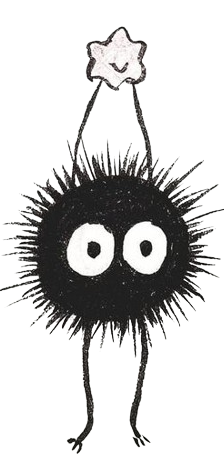
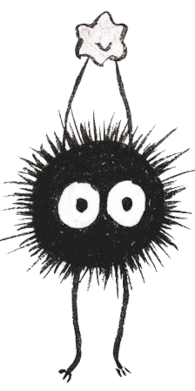
seccion sin cara

diff --git a/characters.html b/characters.html
@@ -139,7 +139,7 @@
                 <div style="height: 150px; overflow: hidden;" ><svg viewBox="0 0 500 150" preserveAspectRatio="none" style="height: 100%; width: 100%;"><path d="M0.00,49.98 C149.99,150.00 271.49,-49.98 500.00,49.98 L500.00,0.00 L0.00,0.00 Z" style="stroke: none; fill: #FFBD59;"></path></svg></div>
                 <div>
                     <figure>
-                        <img src="./view/image/img-characters/susuwatari/susuwatari.png" alt="Sin cara">
+                        <img src="./view/image/img-characters/sincara/sincara.png" alt="Sin cara">
                     </figure>
                     <h1>Sin Cara</h1>
                 </div>

diff --git a/view/css/mobile.css b/view/css/mobile.css
@@ -644,3 +644,8 @@ ul:last-of-type li:last-of-type {
 .susuwatari{
     background-image: linear-gradient(to top, #30cfd0ad 3%, #ff914dbd 54%, #ff3131bd 81%),url(../image/img-characters/susuwatari/susuwatari1.jpg);
 }
+
+/* Section Sin cara */
+.sincara{
+    background-image: linear-gradient(to top, #30cfd0ad 3%, #ff914dbd 54%, #ff3131bd 81%),url(../image/img-characters/sincara/poster.jpg);
+}
